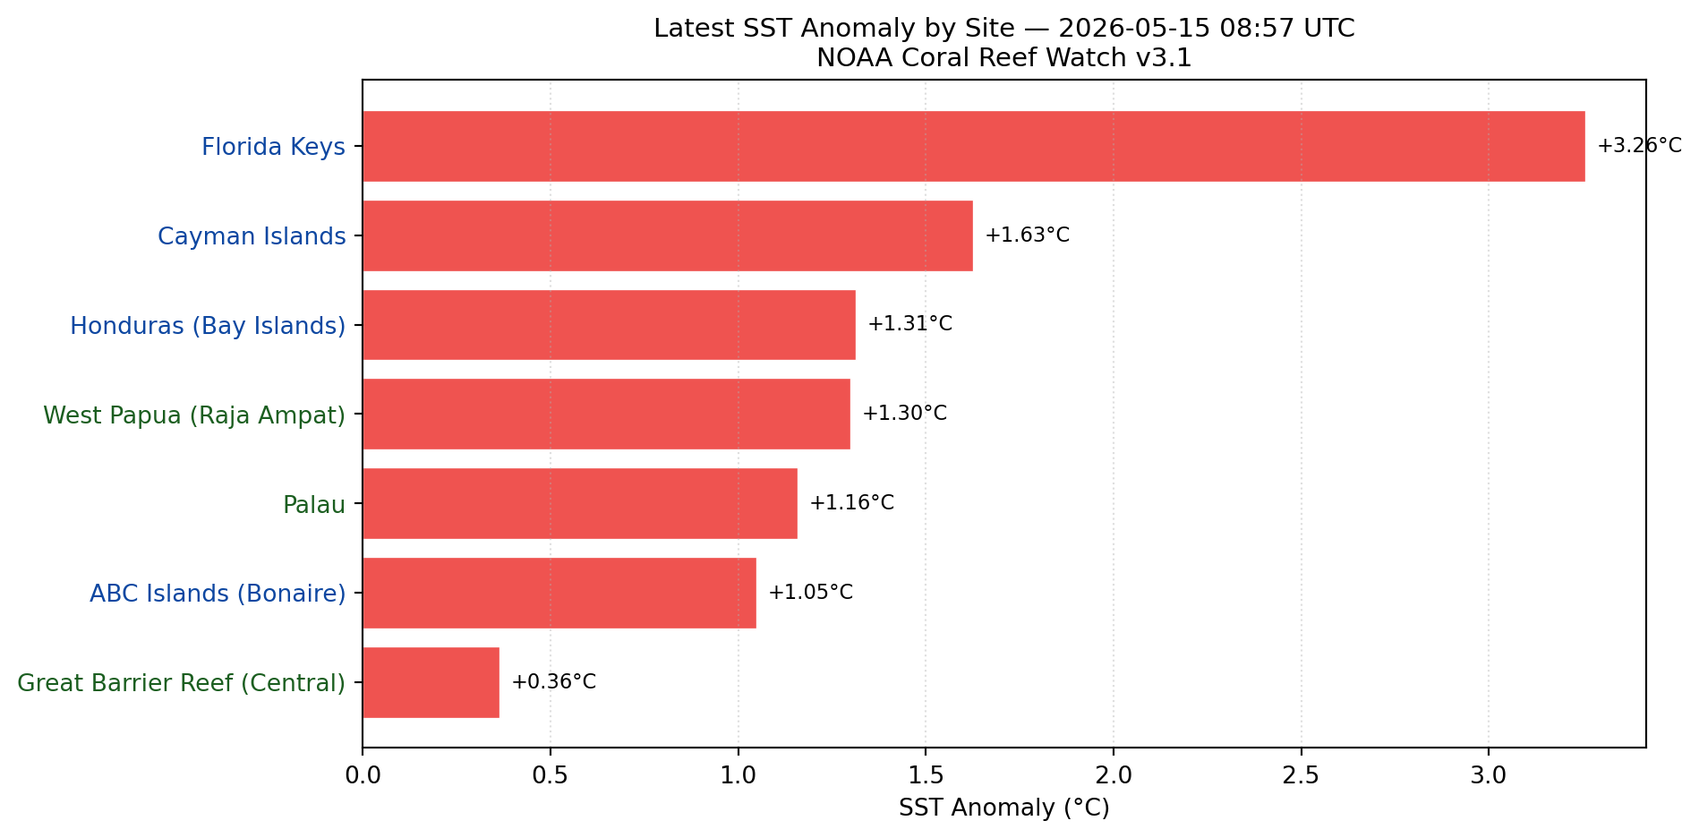
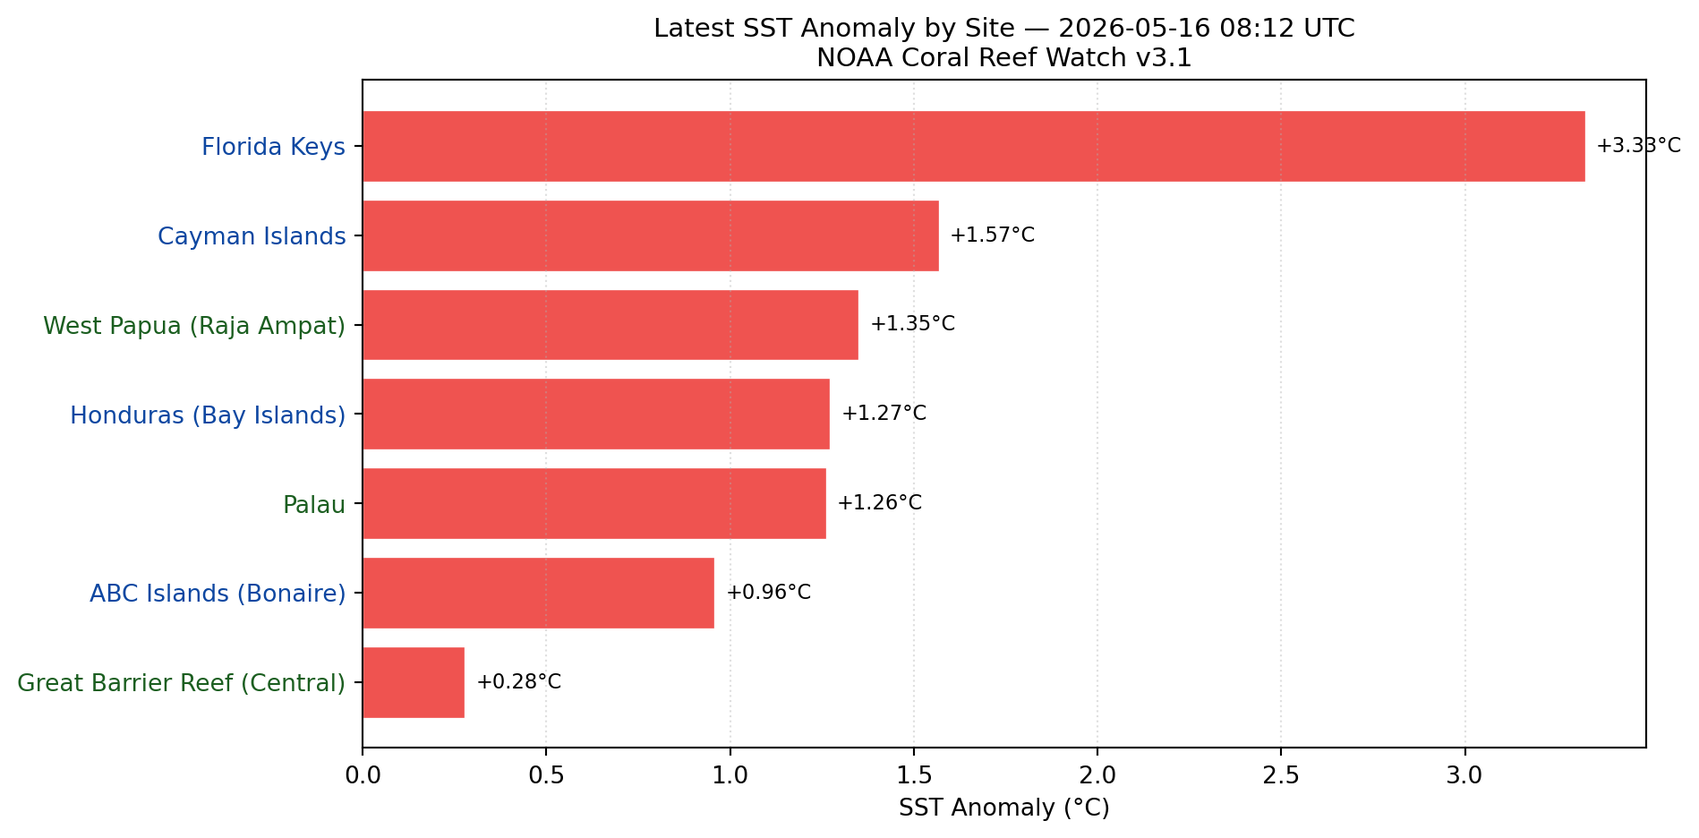
deploy: 9ff700cf95151f88b2bc125e7821a5b8c6edb442

diff --git a/projects/el-nino-watch-2026.html b/projects/el-nino-watch-2026.html
@@ -182,7 +182,7 @@ div.csl-indent {
   <li><a href="#overview" id="toc-overview" class="nav-link active" data-scroll-target="#overview">Overview</a></li>
   <li><a href="#study-sites" id="toc-study-sites" class="nav-link" data-scroll-target="#study-sites">Study sites</a></li>
   <li><a href="#a-note-on-the-data-pipeline" id="toc-a-note-on-the-data-pipeline" class="nav-link" data-scroll-target="#a-note-on-the-data-pipeline">A note on the data pipeline</a></li>
-  <li><a href="#quick-status-2026-05-15-0857-utc" id="toc-quick-status-2026-05-15-0857-utc" class="nav-link" data-scroll-target="#quick-status-2026-05-15-0857-utc">Quick status — 2026-05-15 08:57 UTC</a></li>
+  <li><a href="#quick-status-2026-05-16-0812-utc" id="toc-quick-status-2026-05-16-0812-utc" class="nav-link" data-scroll-target="#quick-status-2026-05-16-0812-utc">Quick status — 2026-05-16 08:12 UTC</a></li>
   <li><a href="#dhw-time-series" id="toc-dhw-time-series" class="nav-link" data-scroll-target="#dhw-time-series">2026 DHW time series</a></li>
   <li><a href="#latest-sst-anomaly-by-site" id="toc-latest-sst-anomaly-by-site" class="nav-link" data-scroll-target="#latest-sst-anomaly-by-site">Latest SST anomaly by site</a></li>
   <li><a href="#el-niño-progression-and-reef-thermal-stress" id="toc-el-niño-progression-and-reef-thermal-stress" class="nav-link" data-scroll-target="#el-niño-progression-and-reef-thermal-stress">El Niño progression and reef thermal stress</a></li>
@@ -230,7 +230,7 @@ div.csl-indent {
     <div>
     <div class="quarto-title-meta-heading">Published</div>
     <div class="quarto-title-meta-contents">
-      <p class="date">May 15, 2026 — 00:00 UTC</p>
+      <p class="date">May 16, 2026 — 00:00 UTC</p>
     </div>
   </div>
   
@@ -242,7 +242,7 @@ div.csl-indent {
 </header>
 
 
-<div id="711e0b66" class="cell" data-execution_count="1">
+<div id="d67ca029" class="cell" data-execution_count="1">
 <details class="code-fold">
 <summary>Show code</summary>
 <div class="code-copy-outer-scaffold"><div class="sourceCode cell-code" id="cb1"><pre class="sourceCode python code-with-copy"><code class="sourceCode python"><span id="cb1-1"><a href="#cb1-1" aria-hidden="true" tabindex="-1"></a><span class="co"># =============================================================================</span></span>
@@ -583,16 +583,16 @@ YYYY MM DD SST_MIN SST_MAX SST@90th_HS SSTA@90th_HS 90th_HS&gt;0 DHW_from_90th_H
 <p>This parser is carried over directly from the first project with two small changes: the cache now stores the raw <code>.txt</code> file rather than a parsed CSV (preserving the original header and MMM value across sessions), and the <code>sst_anomaly</code> column alias from the bleaching project is shortened to <code>sst_anom</code> here for consistency with the status table and plot code.</p>
 <p>Output directories are anchored to the project root rather than using bare relative paths, so the cache and figure outputs from this project stay isolated from the bleaching project even if both kernels are running simultaneously.</p>
 <hr>
-<div id="47d33348" class="cell" data-execution_count="2">
+<div id="049700c3" class="cell" data-execution_count="2">
 <details class="code-fold">
 <summary>Show code</summary>
 <div class="code-copy-outer-scaffold"><div class="sourceCode cell-code" id="cb3"><pre class="sourceCode python code-with-copy"><code class="sourceCode python"><span id="cb3-1"><a href="#cb3-1" aria-hidden="true" tabindex="-1"></a>fetch_stamp <span class="op">=</span> datetime.now(timezone.utc).strftime(<span class="st">"%Y-%m-</span><span class="sc">%d</span><span class="st"> %H:%M UTC"</span>)</span></code></pre></div><button title="Copy to Clipboard" class="code-copy-button"><i class="bi"></i></button></div>
 </details>
 </div>
 </section>
-<section id="quick-status-2026-05-15-0857-utc" class="level2">
-<h2 class="anchored" data-anchor-id="quick-status-2026-05-15-0857-utc">Quick status — 2026-05-15 08:57 UTC</h2>
-<div id="d286bae0" class="cell" data-execution_count="3">
+<section id="quick-status-2026-05-16-0812-utc" class="level2">
+<h2 class="anchored" data-anchor-id="quick-status-2026-05-16-0812-utc">Quick status — 2026-05-16 08:12 UTC</h2>
+<div id="db7633e3" class="cell" data-execution_count="3">
 <details class="code-fold">
 <summary>Show code</summary>
 <div class="code-copy-outer-scaffold"><div class="sourceCode cell-code" id="cb4"><pre class="sourceCode python code-with-copy"><code class="sourceCode python"><span id="cb4-1"><a href="#cb4-1" aria-hidden="true" tabindex="-1"></a><span class="co"># =============================================================================</span></span>
@@ -613,7 +613,7 @@ YYYY MM DD SST_MIN SST_MAX SST@90th_HS SSTA@90th_HS 90th_HS&gt;0 DHW_from_90th_H
 <span id="cb4-16"><a href="#cb4-16" aria-hidden="true" tabindex="-1"></a>        site_errors.append(name)</span></code></pre></div><button title="Copy to Clipboard" class="code-copy-button"><i class="bi"></i></button></div>
 </details>
 </div>
-<div id="12bbc0d2" class="cell" data-execution_count="4">
+<div id="912337b4" class="cell" data-execution_count="4">
 <details class="code-fold">
 <summary>Show code</summary>
 <div class="code-copy-outer-scaffold"><div class="sourceCode cell-code" id="cb5"><pre class="sourceCode python code-with-copy"><code class="sourceCode python"><span id="cb5-1"><a href="#cb5-1" aria-hidden="true" tabindex="-1"></a><span class="co"># =============================================================================</span></span>
@@ -671,13 +671,13 @@ YYYY MM DD SST_MIN SST_MAX SST@90th_HS SSTA@90th_HS 90th_HS&gt;0 DHW_from_90th_H
 </details>
 <div class="cell-output cell-output-display" data-execution_count="4">
 <style type="text/css">
-#T_d47bb_row0_col0, #T_d47bb_row1_col0, #T_d47bb_row2_col0, #T_d47bb_row3_col0, #T_d47bb_row4_col0, #T_d47bb_row5_col0, #T_d47bb_row6_col0 {
+#T_9b3cf_row0_col0, #T_9b3cf_row1_col0, #T_9b3cf_row2_col0, #T_9b3cf_row3_col0, #T_9b3cf_row4_col0, #T_9b3cf_row5_col0, #T_9b3cf_row6_col0 {
   font-weight: bold;
 }
-#T_d47bb_row0_col1, #T_d47bb_row0_col2, #T_d47bb_row0_col3, #T_d47bb_row0_col4, #T_d47bb_row0_col5, #T_d47bb_row1_col1, #T_d47bb_row1_col2, #T_d47bb_row1_col3, #T_d47bb_row1_col4, #T_d47bb_row1_col5, #T_d47bb_row2_col1, #T_d47bb_row2_col2, #T_d47bb_row2_col3, #T_d47bb_row2_col4, #T_d47bb_row2_col5, #T_d47bb_row3_col1, #T_d47bb_row3_col2, #T_d47bb_row3_col3, #T_d47bb_row3_col4, #T_d47bb_row3_col5, #T_d47bb_row4_col1, #T_d47bb_row4_col2, #T_d47bb_row4_col3, #T_d47bb_row4_col4, #T_d47bb_row4_col5, #T_d47bb_row5_col1, #T_d47bb_row5_col2, #T_d47bb_row5_col3, #T_d47bb_row5_col4, #T_d47bb_row5_col5, #T_d47bb_row6_col1, #T_d47bb_row6_col2, #T_d47bb_row6_col3, #T_d47bb_row6_col4, #T_d47bb_row6_col5 {
+#T_9b3cf_row0_col1, #T_9b3cf_row0_col2, #T_9b3cf_row0_col3, #T_9b3cf_row0_col4, #T_9b3cf_row0_col5, #T_9b3cf_row1_col1, #T_9b3cf_row1_col2, #T_9b3cf_row1_col3, #T_9b3cf_row1_col4, #T_9b3cf_row1_col5, #T_9b3cf_row2_col1, #T_9b3cf_row2_col2, #T_9b3cf_row2_col3, #T_9b3cf_row2_col4, #T_9b3cf_row2_col5, #T_9b3cf_row3_col1, #T_9b3cf_row3_col2, #T_9b3cf_row3_col3, #T_9b3cf_row3_col4, #T_9b3cf_row3_col5, #T_9b3cf_row4_col1, #T_9b3cf_row4_col2, #T_9b3cf_row4_col3, #T_9b3cf_row4_col4, #T_9b3cf_row4_col5, #T_9b3cf_row5_col1, #T_9b3cf_row5_col2, #T_9b3cf_row5_col3, #T_9b3cf_row5_col4, #T_9b3cf_row5_col5, #T_9b3cf_row6_col1, #T_9b3cf_row6_col2, #T_9b3cf_row6_col3, #T_9b3cf_row6_col4, #T_9b3cf_row6_col5 {
   text-align: center;
 }
-#T_d47bb_row0_col6, #T_d47bb_row1_col6, #T_d47bb_row2_col6, #T_d47bb_row3_col6, #T_d47bb_row4_col6, #T_d47bb_row5_col6, #T_d47bb_row6_col6 {
+#T_9b3cf_row0_col6, #T_9b3cf_row1_col6, #T_9b3cf_row2_col6, #T_9b3cf_row3_col6, #T_9b3cf_row4_col6, #T_9b3cf_row5_col6, #T_9b3cf_row6_col6 {
   background-color: #FFF9C4;
   color: #F57F17;
   text-align: center;
@@ -685,81 +685,81 @@ YYYY MM DD SST_MIN SST_MAX SST@90th_HS SSTA@90th_HS 90th_HS&gt;0 DHW_from_90th_H
 }
 </style>
 
-<table id="T_d47bb" class="caption-top table table-sm table-striped small">
+<table id="T_9b3cf" class="caption-top table table-sm table-striped small">
 <thead>
 <tr class="header">
-<th id="T_d47bb_level0_col0" class="col_heading level0 col0" data-quarto-table-cell-role="th">Site</th>
-<th id="T_d47bb_level0_col1" class="col_heading level0 col1" data-quarto-table-cell-role="th">Ocean basin</th>
-<th id="T_d47bb_level0_col2" class="col_heading level0 col2" data-quarto-table-cell-role="th">Latest date</th>
-<th id="T_d47bb_level0_col3" class="col_heading level0 col3" data-quarto-table-cell-role="th">SST (°C)</th>
-<th id="T_d47bb_level0_col4" class="col_heading level0 col4" data-quarto-table-cell-role="th">SST anomaly (°C)</th>
-<th id="T_d47bb_level0_col5" class="col_heading level0 col5" data-quarto-table-cell-role="th">DHW (°C-wk)</th>
-<th id="T_d47bb_level0_col6" class="col_heading level0 col6" data-quarto-table-cell-role="th">Alert level</th>
+<th id="T_9b3cf_level0_col0" class="col_heading level0 col0" data-quarto-table-cell-role="th">Site</th>
+<th id="T_9b3cf_level0_col1" class="col_heading level0 col1" data-quarto-table-cell-role="th">Ocean basin</th>
+<th id="T_9b3cf_level0_col2" class="col_heading level0 col2" data-quarto-table-cell-role="th">Latest date</th>
+<th id="T_9b3cf_level0_col3" class="col_heading level0 col3" data-quarto-table-cell-role="th">SST (°C)</th>
+<th id="T_9b3cf_level0_col4" class="col_heading level0 col4" data-quarto-table-cell-role="th">SST anomaly (°C)</th>
+<th id="T_9b3cf_level0_col5" class="col_heading level0 col5" data-quarto-table-cell-role="th">DHW (°C-wk)</th>
+<th id="T_9b3cf_level0_col6" class="col_heading level0 col6" data-quarto-table-cell-role="th">Alert level</th>
 </tr>
 </thead>
 <tbody>
 <tr class="odd">
-<td id="T_d47bb_row0_col0" class="data row0 col0">Florida Keys</td>
-<td id="T_d47bb_row0_col1" class="data row0 col1">Caribbean/Atlantic</td>
-<td id="T_d47bb_row0_col2" class="data row0 col2">2026-05-13</td>
-<td id="T_d47bb_row0_col3" class="data row0 col3">29.77</td>
-<td id="T_d47bb_row0_col4" class="data row0 col4">+3.26</td>
-<td id="T_d47bb_row0_col5" class="data row0 col5">0.0</td>
-<td id="T_d47bb_row0_col6" class="data row0 col6">Bleaching Watch</td>
+<td id="T_9b3cf_row0_col0" class="data row0 col0">Florida Keys</td>
+<td id="T_9b3cf_row0_col1" class="data row0 col1">Caribbean/Atlantic</td>
+<td id="T_9b3cf_row0_col2" class="data row0 col2">2026-05-14</td>
+<td id="T_9b3cf_row0_col3" class="data row0 col3">29.91</td>
+<td id="T_9b3cf_row0_col4" class="data row0 col4">+3.33</td>
+<td id="T_9b3cf_row0_col5" class="data row0 col5">0.0</td>
+<td id="T_9b3cf_row0_col6" class="data row0 col6">Bleaching Watch</td>
 </tr>
 <tr class="even">
-<td id="T_d47bb_row1_col0" class="data row1 col0">Cayman Islands</td>
-<td id="T_d47bb_row1_col1" class="data row1 col1">Caribbean</td>
-<td id="T_d47bb_row1_col2" class="data row1 col2">2026-05-13</td>
-<td id="T_d47bb_row1_col3" class="data row1 col3">29.31</td>
-<td id="T_d47bb_row1_col4" class="data row1 col4">+1.63</td>
-<td id="T_d47bb_row1_col5" class="data row1 col5">0.0</td>
-<td id="T_d47bb_row1_col6" class="data row1 col6">Bleaching Watch</td>
+<td id="T_9b3cf_row1_col0" class="data row1 col0">Cayman Islands</td>
+<td id="T_9b3cf_row1_col1" class="data row1 col1">Caribbean</td>
+<td id="T_9b3cf_row1_col2" class="data row1 col2">2026-05-14</td>
+<td id="T_9b3cf_row1_col3" class="data row1 col3">29.28</td>
+<td id="T_9b3cf_row1_col4" class="data row1 col4">+1.57</td>
+<td id="T_9b3cf_row1_col5" class="data row1 col5">0.0</td>
+<td id="T_9b3cf_row1_col6" class="data row1 col6">Bleaching Watch</td>
 </tr>
 <tr class="odd">
-<td id="T_d47bb_row2_col0" class="data row2 col0">Honduras (Bay Islands)</td>
-<td id="T_d47bb_row2_col1" class="data row2 col1">Caribbean</td>
-<td id="T_d47bb_row2_col2" class="data row2 col2">2026-05-13</td>
-<td id="T_d47bb_row2_col3" class="data row2 col3">29.21</td>
-<td id="T_d47bb_row2_col4" class="data row2 col4">+1.31</td>
-<td id="T_d47bb_row2_col5" class="data row2 col5">0.0</td>
-<td id="T_d47bb_row2_col6" class="data row2 col6">Bleaching Watch</td>
+<td id="T_9b3cf_row2_col0" class="data row2 col0">Honduras (Bay Islands)</td>
+<td id="T_9b3cf_row2_col1" class="data row2 col1">Caribbean</td>
+<td id="T_9b3cf_row2_col2" class="data row2 col2">2026-05-14</td>
+<td id="T_9b3cf_row2_col3" class="data row2 col3">29.19</td>
+<td id="T_9b3cf_row2_col4" class="data row2 col4">+1.27</td>
+<td id="T_9b3cf_row2_col5" class="data row2 col5">0.0</td>
+<td id="T_9b3cf_row2_col6" class="data row2 col6">Bleaching Watch</td>
 </tr>
 <tr class="even">
-<td id="T_d47bb_row3_col0" class="data row3 col0">ABC Islands (Bonaire)</td>
-<td id="T_d47bb_row3_col1" class="data row3 col1">Caribbean</td>
-<td id="T_d47bb_row3_col2" class="data row3 col2">2026-05-13</td>
-<td id="T_d47bb_row3_col3" class="data row3 col3">27.55</td>
-<td id="T_d47bb_row3_col4" class="data row3 col4">+1.05</td>
-<td id="T_d47bb_row3_col5" class="data row3 col5">0.0</td>
-<td id="T_d47bb_row3_col6" class="data row3 col6">Bleaching Watch</td>
+<td id="T_9b3cf_row3_col0" class="data row3 col0">ABC Islands (Bonaire)</td>
+<td id="T_9b3cf_row3_col1" class="data row3 col1">Caribbean</td>
+<td id="T_9b3cf_row3_col2" class="data row3 col2">2026-05-14</td>
+<td id="T_9b3cf_row3_col3" class="data row3 col3">27.33</td>
+<td id="T_9b3cf_row3_col4" class="data row3 col4">+0.96</td>
+<td id="T_9b3cf_row3_col5" class="data row3 col5">0.0</td>
+<td id="T_9b3cf_row3_col6" class="data row3 col6">Bleaching Watch</td>
 </tr>
 <tr class="odd">
-<td id="T_d47bb_row4_col0" class="data row4 col0">Great Barrier Reef (Central)</td>
-<td id="T_d47bb_row4_col1" class="data row4 col1">Indo-Pacific</td>
-<td id="T_d47bb_row4_col2" class="data row4 col2">2026-05-13</td>
-<td id="T_d47bb_row4_col3" class="data row4 col3">25.70</td>
-<td id="T_d47bb_row4_col4" class="data row4 col4">+0.36</td>
-<td id="T_d47bb_row4_col5" class="data row4 col5">0.8</td>
-<td id="T_d47bb_row4_col6" class="data row4 col6">Bleaching Watch</td>
+<td id="T_9b3cf_row4_col0" class="data row4 col0">Great Barrier Reef (Central)</td>
+<td id="T_9b3cf_row4_col1" class="data row4 col1">Indo-Pacific</td>
+<td id="T_9b3cf_row4_col2" class="data row4 col2">2026-05-14</td>
+<td id="T_9b3cf_row4_col3" class="data row4 col3">25.63</td>
+<td id="T_9b3cf_row4_col4" class="data row4 col4">+0.28</td>
+<td id="T_9b3cf_row4_col5" class="data row4 col5">0.8</td>
+<td id="T_9b3cf_row4_col6" class="data row4 col6">Bleaching Watch</td>
 </tr>
 <tr class="even">
-<td id="T_d47bb_row5_col0" class="data row5 col0">Palau</td>
-<td id="T_d47bb_row5_col1" class="data row5 col1">Indo-Pacific</td>
-<td id="T_d47bb_row5_col2" class="data row5 col2">2026-05-13</td>
-<td id="T_d47bb_row5_col3" class="data row5 col3">30.31</td>
-<td id="T_d47bb_row5_col4" class="data row5 col4">+1.16</td>
-<td id="T_d47bb_row5_col5" class="data row5 col5">0.3</td>
-<td id="T_d47bb_row5_col6" class="data row5 col6">Bleaching Watch</td>
+<td id="T_9b3cf_row5_col0" class="data row5 col0">Palau</td>
+<td id="T_9b3cf_row5_col1" class="data row5 col1">Indo-Pacific</td>
+<td id="T_9b3cf_row5_col2" class="data row5 col2">2026-05-14</td>
+<td id="T_9b3cf_row5_col3" class="data row5 col3">30.48</td>
+<td id="T_9b3cf_row5_col4" class="data row5 col4">+1.26</td>
+<td id="T_9b3cf_row5_col5" class="data row5 col5">0.5</td>
+<td id="T_9b3cf_row5_col6" class="data row5 col6">Bleaching Watch</td>
 </tr>
 <tr class="odd">
-<td id="T_d47bb_row6_col0" class="data row6 col0">West Papua (Raja Ampat)</td>
-<td id="T_d47bb_row6_col1" class="data row6 col1">Indo-Pacific</td>
-<td id="T_d47bb_row6_col2" class="data row6 col2">2026-05-13</td>
-<td id="T_d47bb_row6_col3" class="data row6 col3">30.20</td>
-<td id="T_d47bb_row6_col4" class="data row6 col4">+1.30</td>
-<td id="T_d47bb_row6_col5" class="data row6 col5">1.3</td>
-<td id="T_d47bb_row6_col6" class="data row6 col6">Bleaching Watch</td>
+<td id="T_9b3cf_row6_col0" class="data row6 col0">West Papua (Raja Ampat)</td>
+<td id="T_9b3cf_row6_col1" class="data row6 col1">Indo-Pacific</td>
+<td id="T_9b3cf_row6_col2" class="data row6 col2">2026-05-14</td>
+<td id="T_9b3cf_row6_col3" class="data row6 col3">30.47</td>
+<td id="T_9b3cf_row6_col4" class="data row6 col4">+1.35</td>
+<td id="T_9b3cf_row6_col5" class="data row6 col5">1.4</td>
+<td id="T_9b3cf_row6_col6" class="data row6 col6">Bleaching Watch</td>
 </tr>
 </tbody>
 </table>
@@ -770,7 +770,7 @@ YYYY MM DD SST_MIN SST_MAX SST@90th_HS SSTA@90th_HS 90th_HS&gt;0 DHW_from_90th_H
 </section>
 <section id="dhw-time-series" class="level2">
 <h2 class="anchored" data-anchor-id="dhw-time-series">2026 DHW time series</h2>
-<div id="c583b0f1" class="cell" data-execution_count="5">
+<div id="630ea708" class="cell" data-execution_count="5">
 <details class="code-fold">
 <summary>Show code</summary>
 <div class="code-copy-outer-scaffold"><div class="sourceCode cell-code" id="cb6"><pre class="sourceCode python code-with-copy"><code class="sourceCode python"><span id="cb6-1"><a href="#cb6-1" aria-hidden="true" tabindex="-1"></a><span class="co"># =============================================================================</span></span>
@@ -856,7 +856,7 @@ YYYY MM DD SST_MIN SST_MAX SST@90th_HS SSTA@90th_HS 90th_HS&gt;0 DHW_from_90th_H
 </section>
 <section id="latest-sst-anomaly-by-site" class="level2">
 <h2 class="anchored" data-anchor-id="latest-sst-anomaly-by-site">Latest SST anomaly by site</h2>
-<div id="0b46686c" class="cell" data-execution_count="6">
+<div id="3902c471" class="cell" data-execution_count="6">
 <details class="code-fold">
 <summary>Show code</summary>
 <div class="code-copy-outer-scaffold"><div class="sourceCode cell-code" id="cb7"><pre class="sourceCode python code-with-copy"><code class="sourceCode python"><span id="cb7-1"><a href="#cb7-1" aria-hidden="true" tabindex="-1"></a><span class="co"># =============================================================================</span></span>
@@ -933,7 +933,7 @@ YYYY MM DD SST_MIN SST_MAX SST@90th_HS SSTA@90th_HS 90th_HS&gt;0 DHW_from_90th_H
 <p>This came up at dinner. She’s right. This is a monitoring dashboard, not a causal study, and the chart below should be read as a visual sanity check against a known climate driver — not as evidence of a causal relationship. A rigorous treatment is on the list for a future version of this project.</p>
 <p>One more honest note: I started this project because I dive these reefs and care about what happens to them. The Florida Keys anomaly, West Papua already carrying DHW, all seven sites at Bleaching Watch before summer even starts in the Northern Hemisphere — I know what that pattern looked like in 2023 and 2016. I’m prepared for some serious heartbreak this summer. I hope I’m wrong.</p>
 <p>One data note worth flagging: the ONI is published with a lag of one to two months by NOAA’s Climate Prediction Center. The most recent bar in the chart below may not reflect current conditions. For the most current ENSO status, NOAA CPC publishes weekly updates at <a href="https://www.cpc.ncep.noaa.gov/products/analysis_monitoring/enso_advisory/index.shtml" class="uri">https://www.cpc.ncep.noaa.gov/products/analysis_monitoring/enso_advisory/index.shtml</a>. This lag also explains why the ONI bars may end earlier than the DHW lines — the CRW v3.1 Virtual Station data is updated daily, making it considerably more current than the ONI’s monthly publication schedule.</p>
-<div id="4219760c" class="cell" data-execution_count="7">
+<div id="4691a840" class="cell" data-execution_count="7">
 <details class="code-fold">
 <summary>Show code</summary>
 <div class="code-copy-outer-scaffold"><div class="sourceCode cell-code" id="cb8"><pre class="sourceCode python code-with-copy"><code class="sourceCode python"><span id="cb8-1"><a href="#cb8-1" aria-hidden="true" tabindex="-1"></a><span class="co"># =============================================================================</span></span>
@@ -1120,7 +1120,7 @@ YYYY MM DD SST_MIN SST_MAX SST@90th_HS SSTA@90th_HS 90th_HS&gt;0 DHW_from_90th_H
 <div id="refs" role="list">
 
 </div>
-<p><em>Page last rendered: 2026-05-15 08:57 UTC. Data fetched live from NOAA CRW — values update with each site deployment. This page is part of a portfolio project at <a href="https://velezf.github.io">velezf.github.io</a>; it is not an official NOAA product.</em></p>
+<p><em>Page last rendered: 2026-05-16 08:12 UTC. Data fetched live from NOAA CRW — values update with each site deployment. This page is part of a portfolio project at <a href="https://velezf.github.io">velezf.github.io</a>; it is not an official NOAA product.</em></p>
 
 
 <!-- -->
@@ -1131,13 +1131,13 @@ YYYY MM DD SST_MIN SST_MAX SST@90th_HS SSTA@90th_HS 90th_HS&gt;0 DHW_from_90th_H
   author = {Velez, Frank},
   title = {2026 {Super} {El} {Niño} {Watch:} {Live} {Thermal} {Stress}
     {Monitoring}},
-  date = {2026-05-15},
+  date = {2026-05-16},
   url = {https://velezf.github.io/projects/el-nino-watch-2026},
   langid = {en}
 }
 </code><button title="Copy to Clipboard" class="code-copy-button"><i class="bi"></i></button></pre><div class="quarto-appendix-secondary-label">For attribution, please cite this work as:</div><div id="ref-velez2026" class="csl-entry quarto-appendix-citeas" role="listitem">
 Velez, Frank. 2026. <span>“2026 Super El Niño Watch: Live Thermal Stress
-Monitoring.”</span> May 15. <a href="https://velezf.github.io/projects/el-nino-watch-2026">https://velezf.github.io/projects/el-nino-watch-2026</a>.
+Monitoring.”</span> May 16. <a href="https://velezf.github.io/projects/el-nino-watch-2026">https://velezf.github.io/projects/el-nino-watch-2026</a>.
 </div></div></section></div></main> <!-- /main -->
 <script id="quarto-html-after-body" type="application/javascript">
   window.document.addEventListener("DOMContentLoaded", function (event) {

diff --git a/projects.html b/projects.html
@@ -243,7 +243,7 @@ window.Quarto = {
 
 <div class="quarto-listing quarto-listing-container-grid" id="listing-listing">
 <div class="list grid quarto-listing-cols-3">
[2 lines of base64/hex data omitted]
 <a href="./projects/el-nino-watch-2026.html" class="quarto-grid-link">
 <div class="quarto-grid-item card h-100 card-left">
 <p class="card-img-top">
@@ -273,13 +273,13 @@ window.Quarto = {
 </div>
 <div class="card-attribution card-text-small end">
 <div class="listing-date">
-May 15, 2026
+May 16, 2026
 </div>
 </div>
 </div>
 </div></a>
 </div>
[2 lines of base64/hex data omitted]
 <a href="./projects/bleaching-risk-notebook.html" class="quarto-grid-link">
 <div class="quarto-grid-item card h-100 card-left">
 <p class="card-img-top">
@@ -313,7 +313,7 @@ May 12, 2026
 </div>
 </div></a>
 </div>
[2 lines of base64/hex data omitted]
 <a href="./projects/subaru-audio-tuning.html" class="quarto-grid-link">
 <div class="quarto-grid-item card h-100 card-left">
 <p class="card-img-top">
@@ -349,7 +349,7 @@ May 7, 2026
 </div>
 </div></a>
 </div>
[2 lines of base64/hex data omitted]
 <a href="./projects/lora-radiorocket.html" class="quarto-grid-link">
 <div class="quarto-grid-item card h-100 card-left">
 <p class="card-img-top">
@@ -385,7 +385,7 @@ May 9, 2025
 </div>
 </div></a>
 </div>
-<div class="g-col-1" data-index="4" data-categories="Y3ljbGluZyUyQ2FuYWx5dGljcyUyQ3Zpc3VhbGl6YXRpb24lMkNweXRob24=" data-listing-date-sort="1746057600000" data-listing-file-modified-sort="1778835392584" data-listing-date-modified-sort="NaN" data-listing-reading-time-sort="1" data-listing-word-count-sort="117">
+<div class="g-col-1" data-index="4" data-categories="Y3ljbGluZyUyQ2FuYWx5dGljcyUyQ3Zpc3VhbGl6YXRpb24lMkNweXRob24=" data-listing-date-sort="1746057600000" data-listing-file-modified-sort="1778919091030" data-listing-date-modified-sort="NaN" data-listing-reading-time-sort="1" data-listing-word-count-sort="117">
 <a href="./projects/freezingsaddles.html" class="quarto-grid-link">
 <div class="quarto-grid-item card h-100 card-left">
 <p class="card-img-top">
@@ -417,7 +417,7 @@ May 1, 2025
 </div>
 </div></a>
 </div>
[2 lines of base64/hex data omitted]
 <a href="./projects/benthic-habitat-map.html" class="quarto-grid-link">
 <div class="quarto-grid-item card h-100 card-left">
 <p class="card-img-top">
@@ -449,7 +449,7 @@ Mar 1, 2025
 </div>
 </div></a>
 </div>
[2 lines of base64/hex data omitted]
 <a href="./projects/reef-sfm-workflow.html" class="quarto-grid-link">
 <div class="quarto-grid-item card h-100 card-left">
 <p class="card-img-top">
@@ -481,7 +481,7 @@ Feb 1, 2025
 </div>
 </div></a>
 </div>
-<div class="g-col-1" data-index="7" data-categories="bWFyaW5lJTIwc2NpZW5jZSUyQ3Bob3RvZ3JhbW1ldHJ5JTJDM0QlMkNHSVM=" data-listing-date-sort="1735689600000" data-listing-file-modified-sort="1778835392585" data-listing-date-modified-sort="NaN" data-listing-reading-time-sort="2" data-listing-word-count-sort="263">
+<div class="g-col-1" data-index="7" data-categories="bWFyaW5lJTIwc2NpZW5jZSUyQ3Bob3RvZ3JhbW1ldHJ5JTJDM0QlMkNHSVM=" data-listing-date-sort="1735689600000" data-listing-file-modified-sort="1778919091031" data-listing-date-modified-sort="NaN" data-listing-reading-time-sort="2" data-listing-word-count-sort="263">
 <a href="./projects/sfm-marine.html" class="quarto-grid-link">
 <div class="quarto-grid-item card h-100 card-left">
 <p class="card-img-top">
